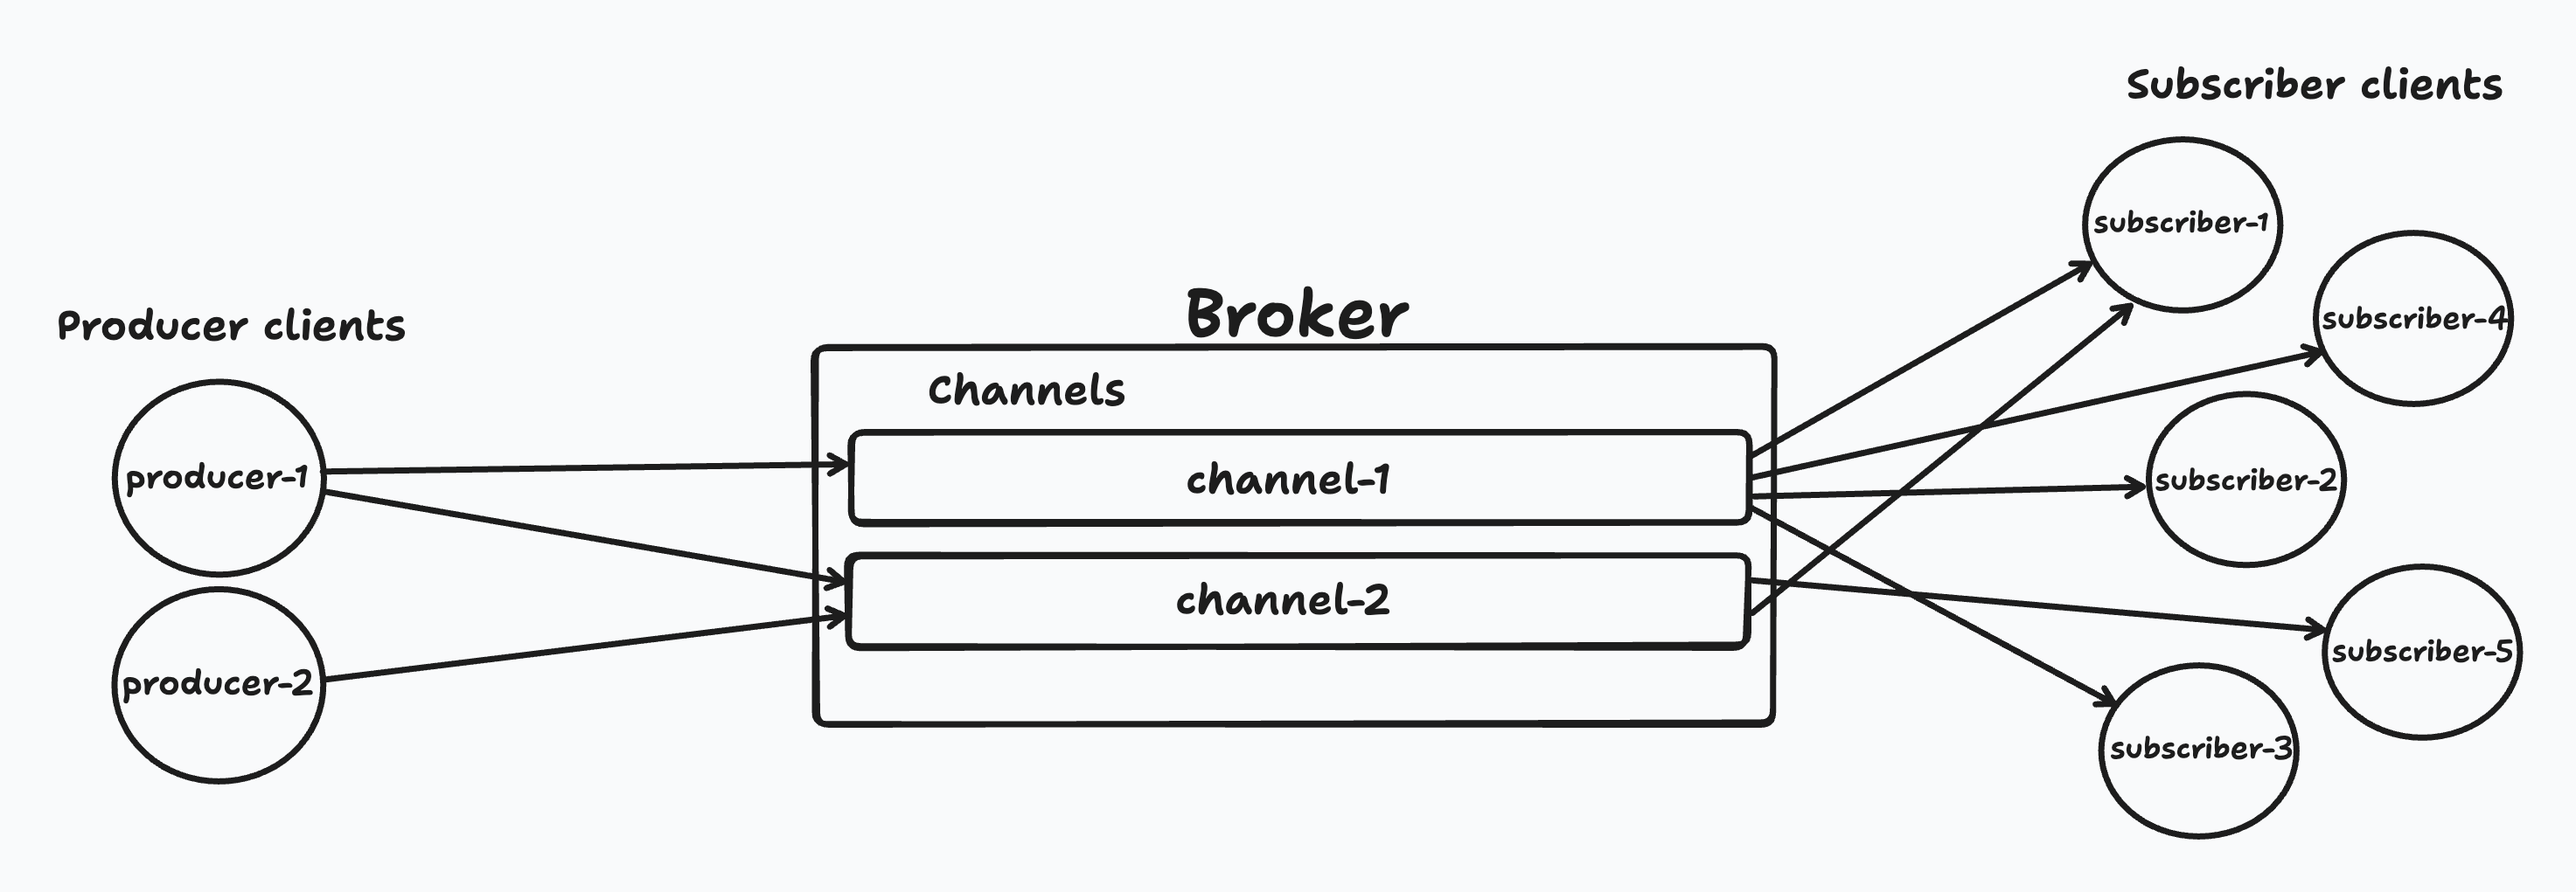
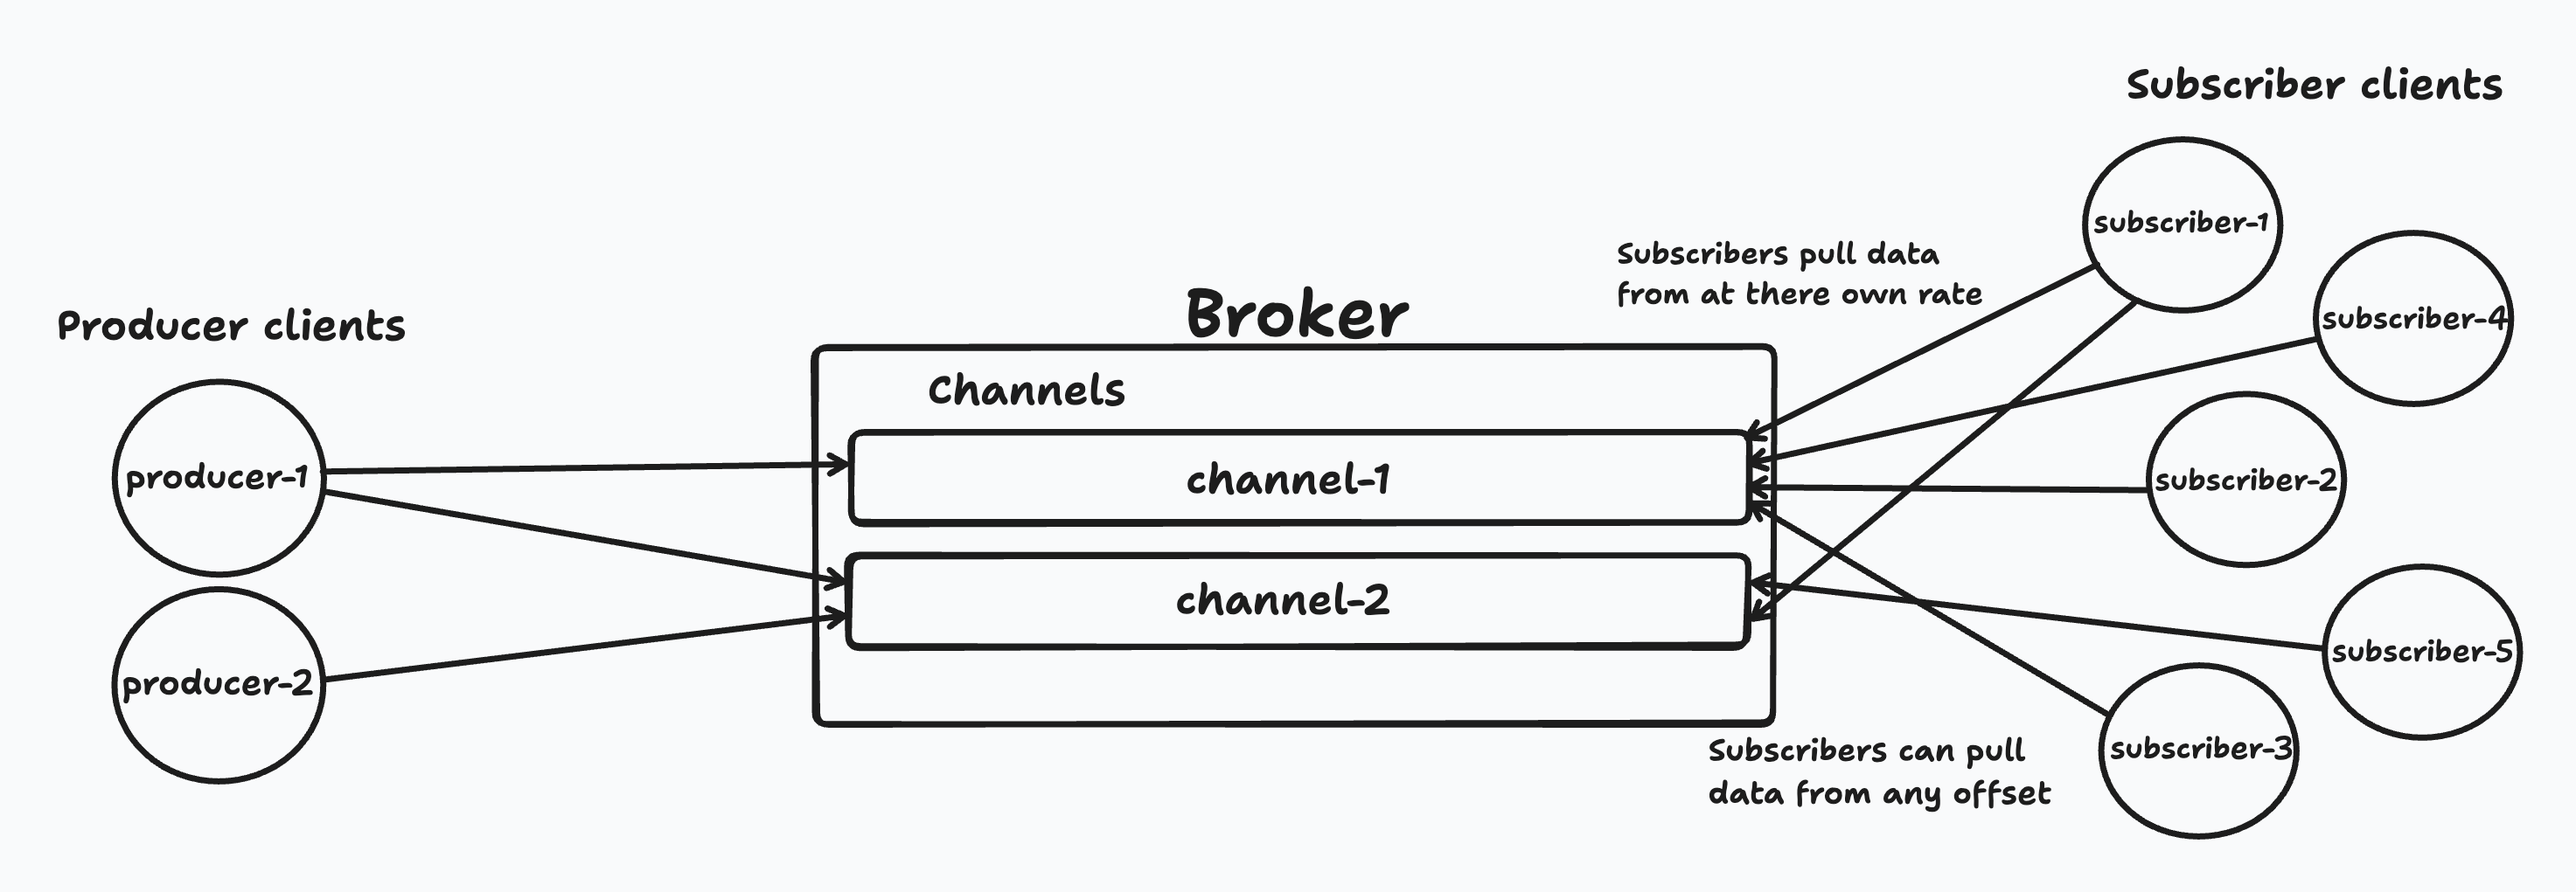
docs: updated architecture and features

diff --git a/README.md b/README.md
@@ -1,15 +1,20 @@
 # MQ - Lightweight Message Queue Broker
 
-A high-performance message queue broker built in Go using gRPC. Designed for efficient pub/sub messaging with support for multiple channels and concurrent subscribers.
+A high-performance, pull-based message queue broker built in Go using gRPC. Designed for efficient pub/sub messaging where clients pull data at their own pace with support for configurable data pull intervals.
 
 ## Features
 - gRPC-based communication
+- Pull-based communication model
 - Pub/Sub messaging pattern
+- Clients control their data consumption rate
+- Configurable data pull intervals
+- Batch message retrieval to read data in chunks and prevent overload
+- Configurable batch size for optimized performance
 - Multiple channel support
 - In-memory message storage
 - Concurrent subscriber handling
 - Graceful connection management
-- Structured logging with Zap
+- Structured logging
 
 ## Use Cases
 - Microservices communication
@@ -18,6 +23,9 @@ A high-performance message queue broker built in Go using gRPC. Designed for eff
 - Distributed systems messaging
 
 ## Architecture
+
+In the pull-based architecture, subscribers actively request messages from the broker based on their capacity and desired data pull intervals. This allows clients to manage their own consumption rate and handle backpressure effectively.
+
 ![Architecture](https://github.com/hitesh22rana/mq/blob/main/.github/images/architecture.png)
 
 ## Prerequisites
